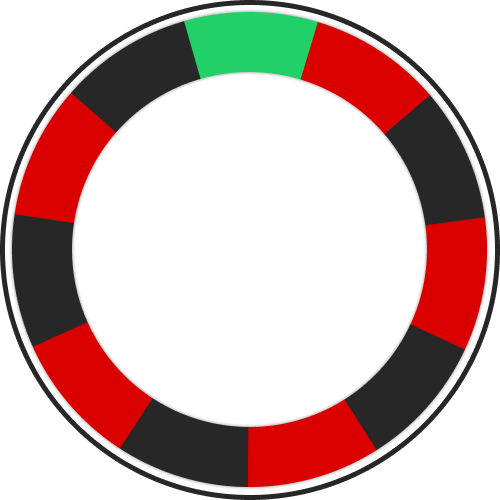
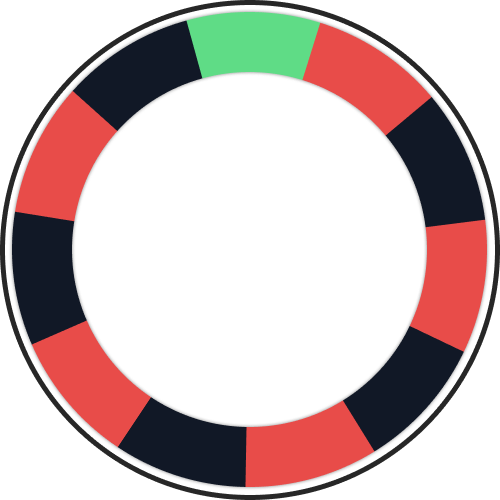
Change green color

diff --git a/src/views/LeaderboardView.vue b/src/views/LeaderboardView.vue
@@ -46,7 +46,7 @@ onMounted(async () => {
         v-for="(user, index) in podium"
         :key="user.name"
         :to="`/profile/${user.name}`"
-        class="group px-12 sm:first:col-span-2 lg:first:col-span-1 flex items-center justify-center space-x-16 bg-white first:bg-yellow-400"
+        class="group px-12 sm:first:col-span-2 lg:first:col-span-1 flex items-center justify-center space-x-16 bg-white first:bg-green-400"
       >
           <span class="text-6xl font-bold">{{ index + 1}}</span>
           <div class="grow flex flex-col">
@@ -96,7 +96,7 @@ onMounted(async () => {
         v-for="user in filteredLeaderboard"
         :key="user.name"
         :to="`/profile/${user.name}`"
-        class="w-full px-4 py-2 sm:py-4 flex space-x-8 even:bg-gray-100  rounded"
+        class="w-full px-4 py-2 sm:py-4 flex space-x-8 even:bg-gray-100 rounded-lg hover:bg-green-200"
       >
         <span class="w-6">{{ user.rank }}</span>
         <span class="grow">{{ user.name }}</span>

diff --git a/src/helpers/Color.ts b/src/helpers/Color.ts
@@ -5,7 +5,7 @@ export default function getClassFromColor(color: string, hover?: boolean): strin
     case Color.RED:
       return `bg-red-500 shadow-red-300 ${hover ? "hover:bg-red-600" : ""}`;
     case Color.GREEN:
-      return `bg-green-500 shadow-green-300 ${hover ? "hover:bg-green-600" : ""}`;
+      return `bg-green-400 shadow-green-300 ${hover ? "hover:bg-green-500" : ""}`;
     case Color.BLACK:
       return `bg-gray-900 shadow-gray-500 ${hover ? "hover:bg-black" : ""}`;
     default:

diff --git a/src/components/layout/NavBar.vue b/src/components/layout/NavBar.vue
@@ -38,7 +38,7 @@ const auth = useAuthStore();
         <!-- Balance -->
         <label v-show="auth.isAuth"
           class="p-3 flex justify-center items-center gap-2 rounded">
-          <BanknotesIcon class="h-8 w-8 text-green-500" />
+          <BanknotesIcon class="h-8 w-8 text-green-400" />
           <span class="text-xl">{{ auth.user.balance }}</span>
         </label>
 

diff --git a/src/components/user/activity/bet/BetActivity.vue b/src/components/user/activity/bet/BetActivity.vue
@@ -25,7 +25,7 @@ const isOpen = ref(false);
       </div>
 
       <span class="w-14 uppercase text-gray-800 font-bold rounded shadow-md" :class="{
-        'bg-green-300  shadow-green-500': bet.isWin,
+        'bg-green-300  shadow-green-400': bet.isWin,
         'bg-red-300  shadow-red-500': !bet.isWin
       }">
         {{ bet.isWin ? 'Win' : 'Lose' }}
